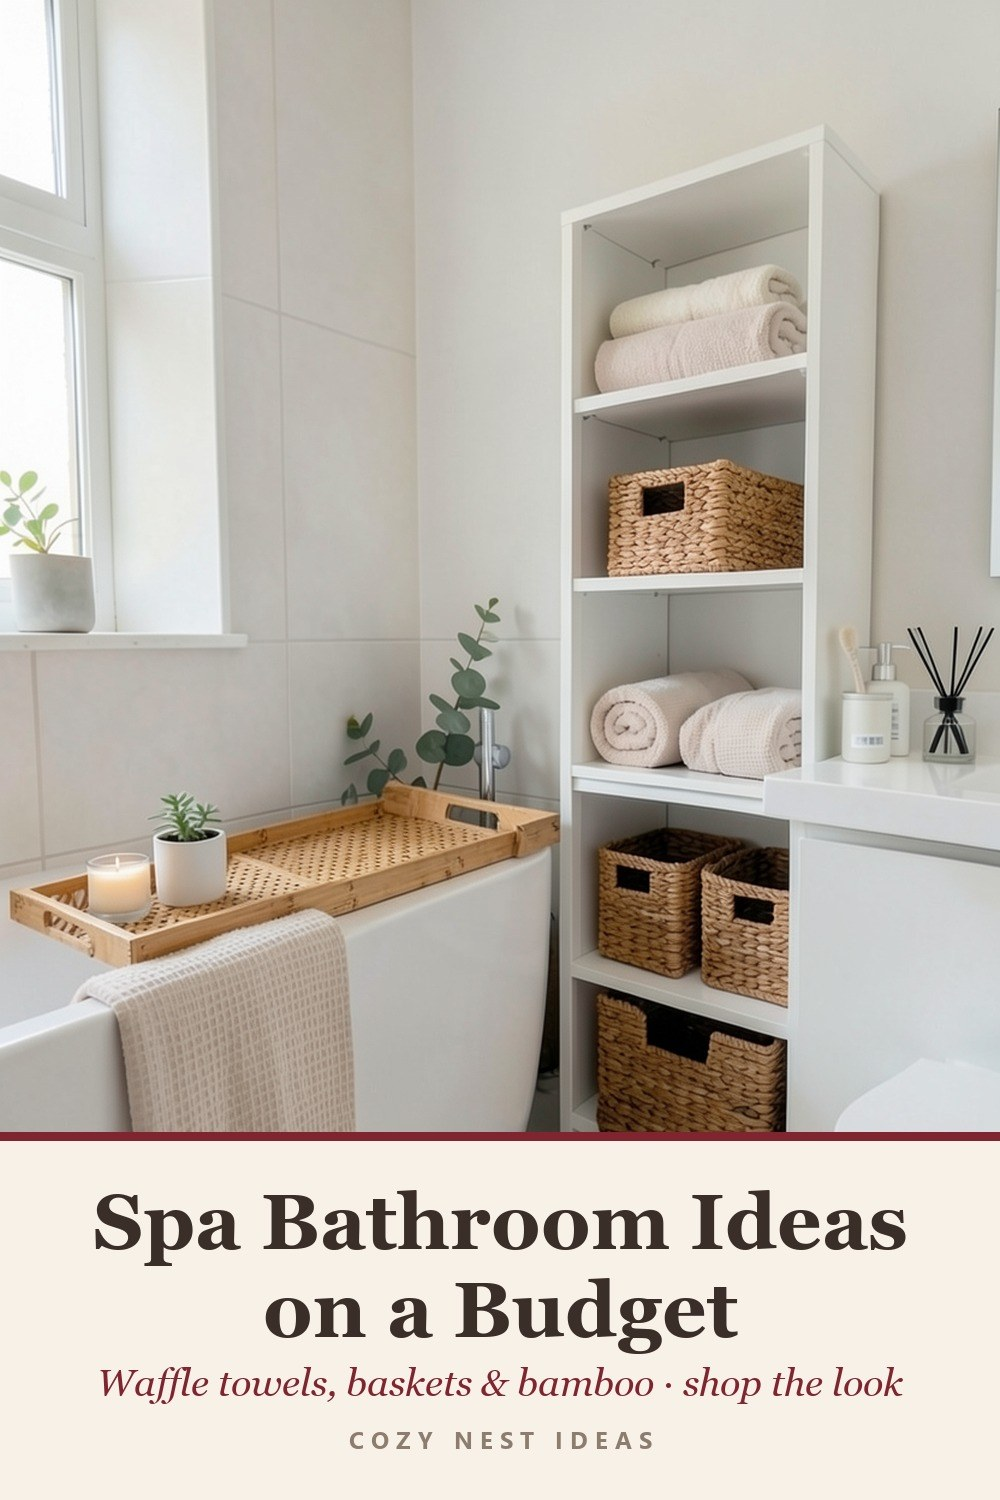
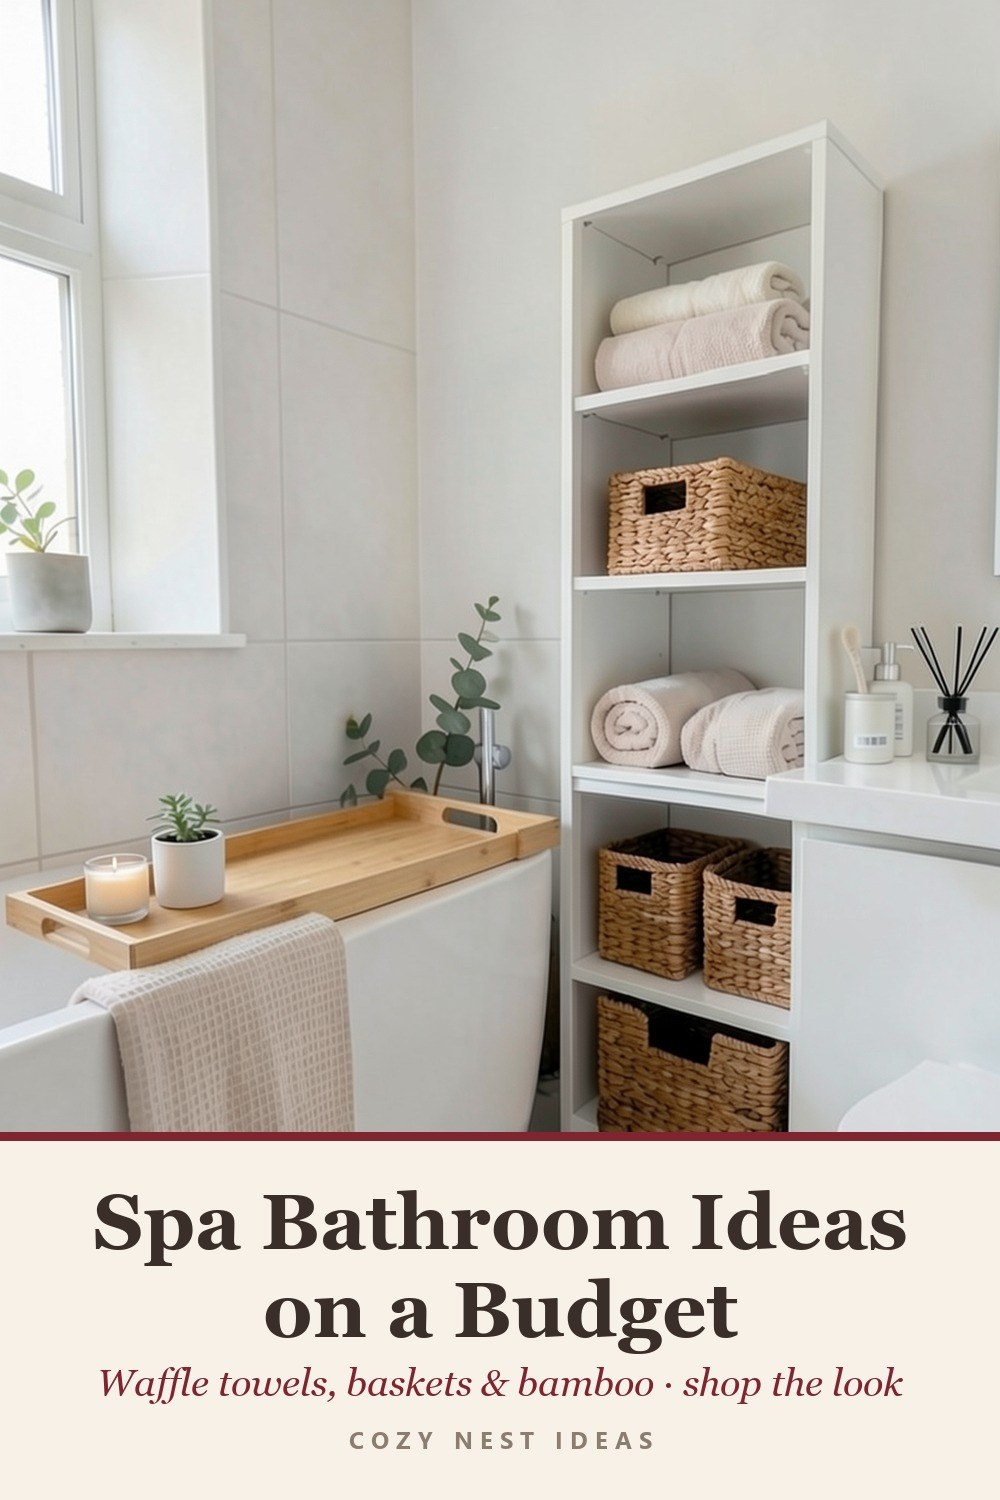
Spa bathroom: plain bamboo tray to match the product

diff --git a/index.html b/index.html
@@ -3,7 +3,7 @@
 <meta name="p:domain_verify" content="4409502b235040ad3e69c63925a18982"/>
 <title>Cozy Nest Ideas | Cozy Nest Ideas</title>
 <meta name="description" content="Cozy home and seasonal decor ideas with shop-the-look lists.">
-<link rel="stylesheet" href="style.css?v=1793442678"></head><body><div class="wrap">
+<link rel="stylesheet" href="style.css?v=1793442964"></head><body><div class="wrap">
 <header><a href="index.html">C O Z Y &nbsp; N E S T &nbsp; I D E A S</a></header>
 <h1>Cozy home ideas</h1><p class="intro">Cozy, seasonal room ideas, each with the pieces to shop the look.</p><div class="grid"><a class="card" href="cozy-winter-bedroom/index.html"><img src="cozy-winter-bedroom/room.jpg" alt="Cozy Winter Bedroom Ideas" loading="lazy"><span>Cozy Winter Bedroom Ideas</span></a><a class="card" href="christmas-living-room/index.html"><img src="christmas-living-room/room.jpg" alt="Cozy Christmas Living Room Ideas" loading="lazy"><span>Cozy Christmas Living Room Ideas</span></a><a class="card" href="safari-nursery/index.html"><img src="safari-nursery/room.jpg" alt="Neutral Safari Nursery Ideas" loading="lazy"><span>Neutral Safari Nursery Ideas</span></a><a class="card" href="christmas-mantel/index.html"><img src="christmas-mantel/room.jpg" alt="Cozy Christmas Mantel Ideas" loading="lazy"><span>Cozy Christmas Mantel Ideas</span></a><a class="card" href="thanksgiving-table/index.html"><img src="thanksgiving-table/room.jpg" alt="Cozy Thanksgiving Table Ideas" loading="lazy"><span>Cozy Thanksgiving Table Ideas</span></a><a class="card" href="boho-nursery/index.html"><img src="boho-nursery/room.jpg" alt="Boho Baby Girl Nursery Ideas" loading="lazy"><span>Boho Baby Girl Nursery Ideas</span></a><a class="card" href="fall-reading-nook/index.html"><img src="fall-reading-nook/room.jpg" alt="Cozy Fall Reading Nook Ideas" loading="lazy"><span>Cozy Fall Reading Nook Ideas</span></a><a class="card" href="christmas-entryway/index.html"><img src="christmas-entryway/room.jpg" alt="Scandinavian Christmas Entryway Ideas" loading="lazy"><span>Scandinavian Christmas Entryway Ideas</span></a><a class="card" href="coffee-bar-ideas/index.html"><img src="coffee-bar-ideas/room.jpg" alt="Cozy Coffee Bar Ideas for Home" loading="lazy"><span>Cozy Coffee Bar Ideas for Home</span></a><a class="card" href="spa-bathroom-ideas/index.html"><img src="spa-bathroom-ideas/room.jpg" alt="Spa Bathroom Ideas on a Budget" loading="lazy"><span>Spa Bathroom Ideas on a Budget</span></a><a class="card" href="home-office-nook/index.html"><img src="home-office-nook/room.jpg" alt="Cozy Home Office Nook Ideas" loading="lazy"><span>Cozy Home Office Nook Ideas</span></a></div>
 <footer>As an Amazon Associate I earn from qualifying purchases. Links on this page are affiliate links.<br>&copy; Cozy Nest Ideas. Room images are AI-generated inspiration; products are similar picks, not exact matches.</footer>

diff --git a/christmas-mantel/index.html b/christmas-mantel/index.html
@@ -3,7 +3,7 @@
 <meta name="p:domain_verify" content="4409502b235040ad3e69c63925a18982"/>
 <title>Cozy Christmas Mantel Ideas | Cozy Nest Ideas</title>
 <meta name="description" content="A classic, glowing Christmas mantel: a lush pine garland with pine cones, a lit berry wreath, brass candlesticks with fluted taper candles, sage pillar candles, a tiny lit wooden village and chunky knit stockings. Here are the pieces to recreate it.">
-<link rel="stylesheet" href="../style.css?v=1793442678"></head><body><div class="wrap">
+<link rel="stylesheet" href="../style.css?v=1793442964"></head><body><div class="wrap">
 <header><a href="../index.html">C O Z Y &nbsp; N E S T &nbsp; I D E A S</a></header>
 <div class="disc">As an Amazon Associate I earn from qualifying purchases. Links on this page are affiliate links.</div>
 <h1>Cozy Christmas Mantel Ideas</h1><p class="intro">A classic, glowing Christmas mantel: a lush pine garland with pine cones, a lit berry wreath, brass candlesticks with fluted taper candles, sage pillar candles, a tiny lit wooden village and chunky knit stockings. Here are the pieces to recreate it.</p>

diff --git a/thanksgiving-table/index.html b/thanksgiving-table/index.html
@@ -3,7 +3,7 @@
 <meta name="p:domain_verify" content="4409502b235040ad3e69c63925a18982"/>
 <title>Cozy Thanksgiving Table Ideas | Cozy Nest Ideas</title>
 <meta name="description" content="A warm, candlelit Thanksgiving table: a soft taupe linen tablecloth, a pine and eucalyptus runner dotted with cream and orange pumpkins, tall brown taper candles in brass and glowing amber votives. Here are the pieces to set it.">
-<link rel="stylesheet" href="../style.css?v=1793442678"></head><body><div class="wrap">
+<link rel="stylesheet" href="../style.css?v=1793442964"></head><body><div class="wrap">
 <header><a href="../index.html">C O Z Y &nbsp; N E S T &nbsp; I D E A S</a></header>
 <div class="disc">As an Amazon Associate I earn from qualifying purchases. Links on this page are affiliate links.</div>
 <h1>Cozy Thanksgiving Table Ideas</h1><p class="intro">A warm, candlelit Thanksgiving table: a soft taupe linen tablecloth, a pine and eucalyptus runner dotted with cream and orange pumpkins, tall brown taper candles in brass and glowing amber votives. Here are the pieces to set it.</p>

diff --git a/boho-nursery/index.html b/boho-nursery/index.html
@@ -3,7 +3,7 @@
 <meta name="p:domain_verify" content="4409502b235040ad3e69c63925a18982"/>
 <title>Boho Baby Girl Nursery Ideas | Cozy Nest Ideas</title>
 <meta name="description" content="A calm, airy boho nursery: a natural oak crib, soft floral sheets in pink and beige, a dusty rose macrame hanging, a wood bead garland, a faux olive tree and a fluffy tassel rug. Here are the pieces to recreate it.">
-<link rel="stylesheet" href="../style.css?v=1793442678"></head><body><div class="wrap">
+<link rel="stylesheet" href="../style.css?v=1793442964"></head><body><div class="wrap">
 <header><a href="../index.html">C O Z Y &nbsp; N E S T &nbsp; I D E A S</a></header>
 <div class="disc">As an Amazon Associate I earn from qualifying purchases. Links on this page are affiliate links.</div>
 <h1>Boho Baby Girl Nursery Ideas</h1><p class="intro">A calm, airy boho nursery: a natural oak crib, soft floral sheets in pink and beige, a dusty rose macrame hanging, a wood bead garland, a faux olive tree and a fluffy tassel rug. Here are the pieces to recreate it.</p>

diff --git a/cozy-winter-bedroom/index.html b/cozy-winter-bedroom/index.html
@@ -3,7 +3,7 @@
 <meta name="p:domain_verify" content="4409502b235040ad3e69c63925a18982"/>
 <title>Cozy Winter Bedroom Ideas | Cozy Nest Ideas</title>
 <meta name="description" content="A soft, warm bedroom for long winter nights: a cloud-like white comforter, deep burgundy velvet, a plush grey sherpa throw and the glow of fairy lights and flickering candles. Here are the pieces to recreate the look.">
-<link rel="stylesheet" href="../style.css?v=1793442678"></head><body><div class="wrap">
+<link rel="stylesheet" href="../style.css?v=1793442964"></head><body><div class="wrap">
 <header><a href="../index.html">C O Z Y &nbsp; N E S T &nbsp; I D E A S</a></header>
 <div class="disc">As an Amazon Associate I earn from qualifying purchases. Links on this page are affiliate links.</div>
 <h1>Cozy Winter Bedroom Ideas</h1><p class="intro">A soft, warm bedroom for long winter nights: a cloud-like white comforter, deep burgundy velvet, a plush grey sherpa throw and the glow of fairy lights and flickering candles. Here are the pieces to recreate the look.</p>

diff --git a/fall-reading-nook/index.html b/fall-reading-nook/index.html
@@ -3,7 +3,7 @@
 <meta name="p:domain_verify" content="4409502b235040ad3e69c63925a18982"/>
 <title>Cozy Fall Reading Nook Ideas | Cozy Nest Ideas</title>
 <meta name="description" content="A snug reading corner for autumn: a cloud-like sherpa barrel chair, a chunky knit throw, a chocolate corduroy pillow, a warm arc lamp, rustic floating shelves and a pumpkin candle burning on the side table.">
-<link rel="stylesheet" href="../style.css?v=1793442678"></head><body><div class="wrap">
+<link rel="stylesheet" href="../style.css?v=1793442964"></head><body><div class="wrap">
 <header><a href="../index.html">C O Z Y &nbsp; N E S T &nbsp; I D E A S</a></header>
 <div class="disc">As an Amazon Associate I earn from qualifying purchases. Links on this page are affiliate links.</div>
 <h1>Cozy Fall Reading Nook Ideas</h1><p class="intro">A snug reading corner for autumn: a cloud-like sherpa barrel chair, a chunky knit throw, a chocolate corduroy pillow, a warm arc lamp, rustic floating shelves and a pumpkin candle burning on the side table.</p>

diff --git a/christmas-living-room/index.html b/christmas-living-room/index.html
@@ -3,7 +3,7 @@
 <meta name="p:domain_verify" content="4409502b235040ad3e69c63925a18982"/>
 <title>Cozy Christmas Living Room Ideas | Cozy Nest Ideas</title>
 <meta name="description" content="A warm, classic Christmas corner: a glowing pre-lit tree in champagne ornaments, cable-knit stockings on a garland-draped mantel, flickering candles and soft velvet and sherpa layers on the sofa.">
-<link rel="stylesheet" href="../style.css?v=1793442678"></head><body><div class="wrap">
+<link rel="stylesheet" href="../style.css?v=1793442964"></head><body><div class="wrap">
 <header><a href="../index.html">C O Z Y &nbsp; N E S T &nbsp; I D E A S</a></header>
 <div class="disc">As an Amazon Associate I earn from qualifying purchases. Links on this page are affiliate links.</div>
 <h1>Cozy Christmas Living Room Ideas</h1><p class="intro">A warm, classic Christmas corner: a glowing pre-lit tree in champagne ornaments, cable-knit stockings on a garland-draped mantel, flickering candles and soft velvet and sherpa layers on the sofa.</p>

diff --git a/christmas-entryway/index.html b/christmas-entryway/index.html
@@ -3,7 +3,7 @@
 <meta name="p:domain_verify" content="4409502b235040ad3e69c63925a18982"/>
 <title>Scandinavian Christmas Entryway Ideas | Cozy Nest Ideas</title>
 <meta name="description" content="A bright, simple Christmas welcome: a slim snow-flocked tree, a eucalyptus wreath on a round mirror, a bamboo bench with a tartan pillow, glowing lanterns and a cozy woven blanket basket.">
-<link rel="stylesheet" href="../style.css?v=1793442678"></head><body><div class="wrap">
+<link rel="stylesheet" href="../style.css?v=1793442964"></head><body><div class="wrap">
 <header><a href="../index.html">C O Z Y &nbsp; N E S T &nbsp; I D E A S</a></header>
 <div class="disc">As an Amazon Associate I earn from qualifying purchases. Links on this page are affiliate links.</div>
 <h1>Scandinavian Christmas Entryway Ideas</h1><p class="intro">A bright, simple Christmas welcome: a slim snow-flocked tree, a eucalyptus wreath on a round mirror, a bamboo bench with a tartan pillow, glowing lanterns and a cozy woven blanket basket.</p>

diff --git a/safari-nursery/index.html b/safari-nursery/index.html
@@ -3,7 +3,7 @@
 <meta name="p:domain_verify" content="4409502b235040ad3e69c63925a18982"/>
 <title>Neutral Safari Nursery Ideas | Cozy Nest Ideas</title>
 <meta name="description" content="A calm, gender-neutral safari nursery: a crisp white crib under a playful jungle mobile, a cozy grey glider for night feeds, book ledges at the ready and woven baskets that keep everything tidy.">
-<link rel="stylesheet" href="../style.css?v=1793442678"></head><body><div class="wrap">
+<link rel="stylesheet" href="../style.css?v=1793442964"></head><body><div class="wrap">
 <header><a href="../index.html">C O Z Y &nbsp; N E S T &nbsp; I D E A S</a></header>
 <div class="disc">As an Amazon Associate I earn from qualifying purchases. Links on this page are affiliate links.</div>
 <h1>Neutral Safari Nursery Ideas</h1><p class="intro">A calm, gender-neutral safari nursery: a crisp white crib under a playful jungle mobile, a cozy grey glider for night feeds, book ledges at the ready and woven baskets that keep everything tidy.</p>

diff --git a/home-office-nook/index.html b/home-office-nook/index.html
@@ -3,7 +3,7 @@
 <meta name="p:domain_verify" content="4409502b235040ad3e69c63925a18982"/>
 <title>Cozy Home Office Nook Ideas | Cozy Nest Ideas</title>
 <meta name="description" content="A calm little workspace for a bedroom or living room corner: a warm oak desk, a fluffy teddy chair, a swing-arm lamp, a linen pinboard and a few tidy organizers.">
-<link rel="stylesheet" href="../style.css?v=1793442678"></head><body><div class="wrap">
+<link rel="stylesheet" href="../style.css?v=1793442964"></head><body><div class="wrap">
 <header><a href="../index.html">C O Z Y &nbsp; N E S T &nbsp; I D E A S</a></header>
 <div class="disc">As an Amazon Associate I earn from qualifying purchases. Links on this page are affiliate links.</div>
 <h1>Cozy Home Office Nook Ideas</h1><p class="intro">A calm little workspace for a bedroom or living room corner: a warm oak desk, a fluffy teddy chair, a swing-arm lamp, a linen pinboard and a few tidy organizers.</p>

diff --git a/coffee-bar-ideas/index.html b/coffee-bar-ideas/index.html
@@ -3,7 +3,7 @@
 <meta name="p:domain_verify" content="4409502b235040ad3e69c63925a18982"/>
 <title>Cozy Coffee Bar Ideas for Home | Cozy Nest Ideas</title>
 <meta name="description" content="A small corner that makes every morning better: an ivory farmhouse cabinet, rustic floating shelves with mugs and jars, and a few smart organizers.">
-<link rel="stylesheet" href="../style.css?v=1793442678"></head><body><div class="wrap">
+<link rel="stylesheet" href="../style.css?v=1793442964"></head><body><div class="wrap">
 <header><a href="../index.html">C O Z Y &nbsp; N E S T &nbsp; I D E A S</a></header>
 <div class="disc">As an Amazon Associate I earn from qualifying purchases. Links on this page are affiliate links.</div>
 <h1>Cozy Coffee Bar Ideas for Home</h1><p class="intro">A small corner that makes every morning better: an ivory farmhouse cabinet, rustic floating shelves with mugs and jars, and a few smart organizers.</p>

diff --git a/spa-bathroom-ideas/index.html b/spa-bathroom-ideas/index.html
@@ -3,7 +3,7 @@
 <meta name="p:domain_verify" content="4409502b235040ad3e69c63925a18982"/>
 <title>Spa Bathroom Ideas on a Budget | Cozy Nest Ideas</title>
 <meta name="description" content="Turn a small bathroom into a calm little spa: a bamboo bath tray, soft waffle towels, woven baskets, a reed diffuser and simple white accessories.">
-<link rel="stylesheet" href="../style.css?v=1793442678"></head><body><div class="wrap">
+<link rel="stylesheet" href="../style.css?v=1793442964"></head><body><div class="wrap">
 <header><a href="../index.html">C O Z Y &nbsp; N E S T &nbsp; I D E A S</a></header>
 <div class="disc">As an Amazon Associate I earn from qualifying purchases. Links on this page are affiliate links.</div>
 <h1>Spa Bathroom Ideas on a Budget</h1><p class="intro">Turn a small bathroom into a calm little spa: a bamboo bath tray, soft waffle towels, woven baskets, a reed diffuser and simple white accessories.</p>
